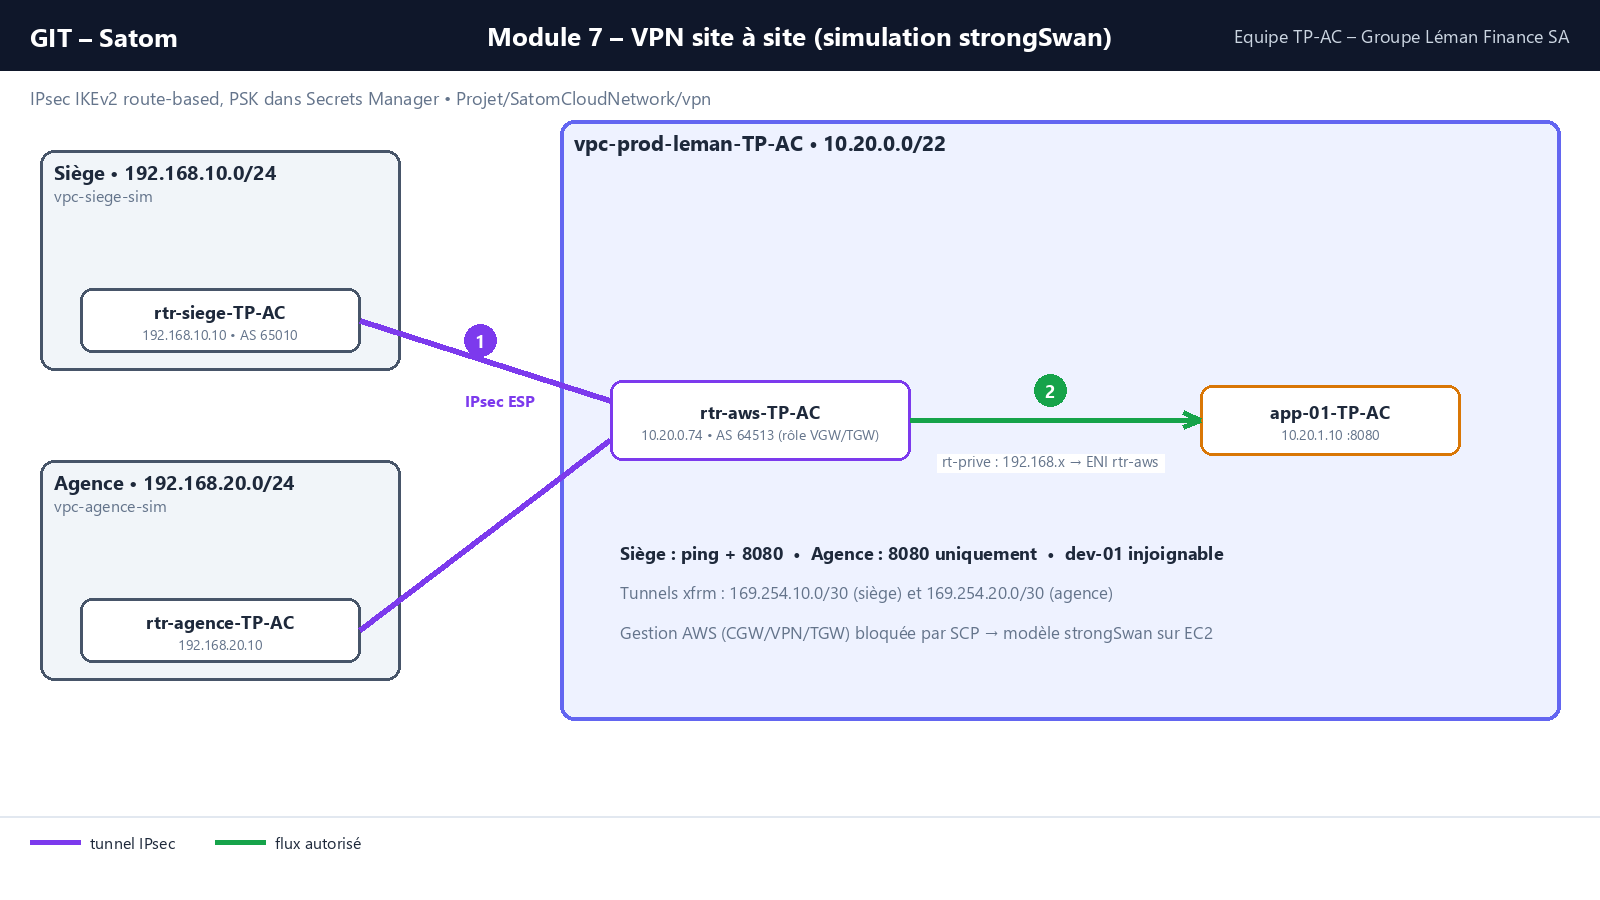
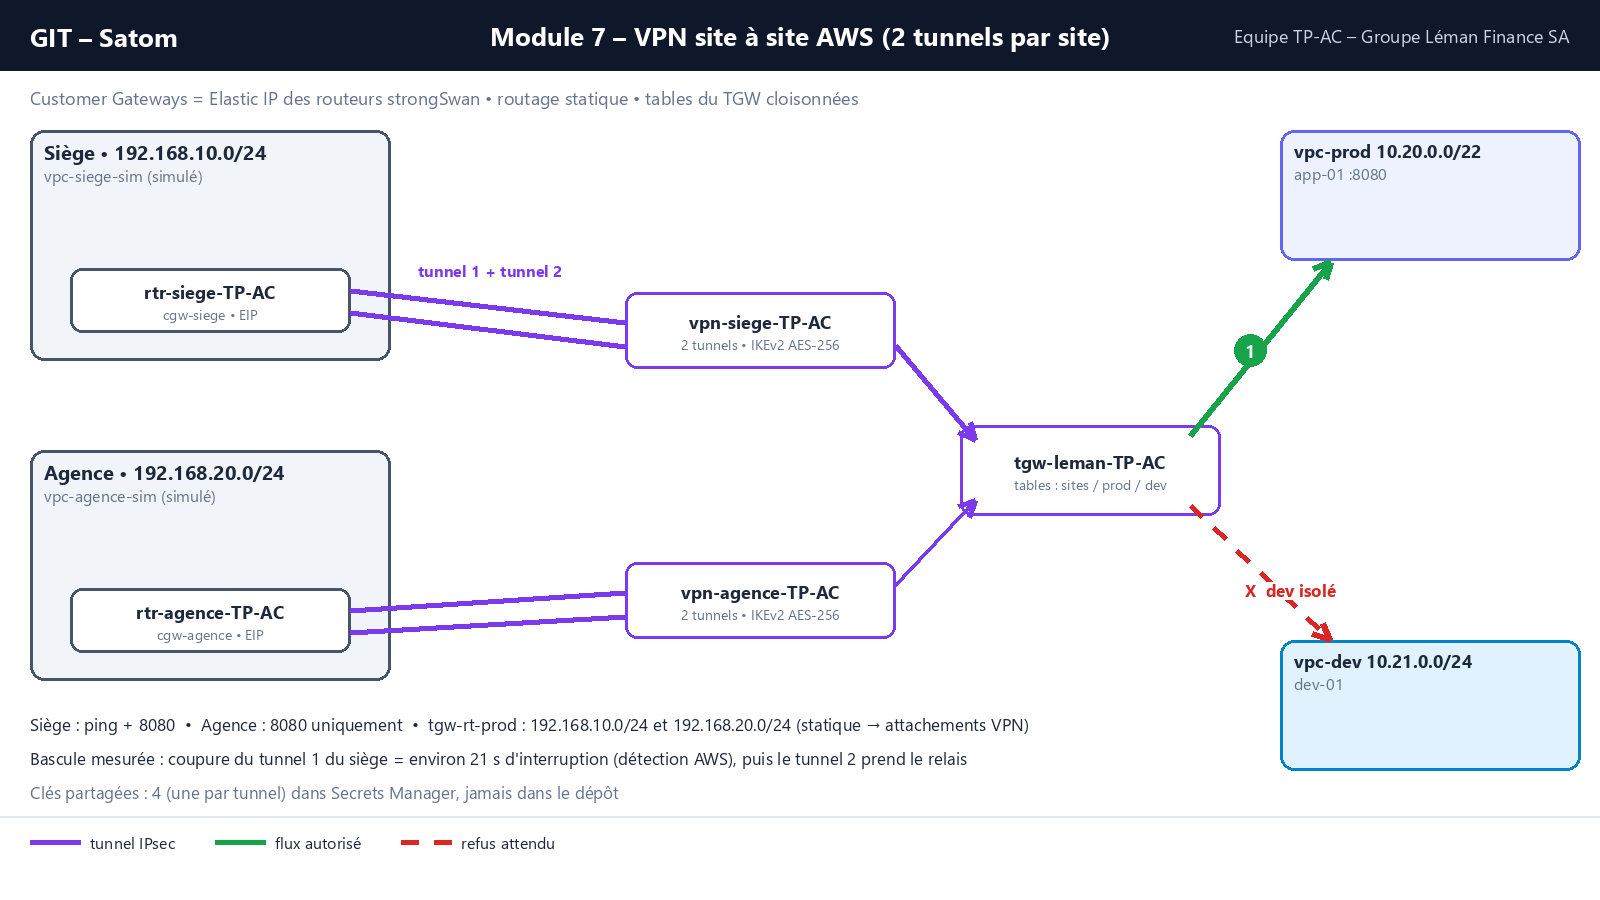
Schemas des modules 6, 7, 8 et schema global mis a jour

diff --git a/scripts/diagrams/gen_m05_m13.py b/scripts/diagrams/gen_m05_m13.py
@@ -23,52 +23,64 @@ g.label(800, 505, "③ dev → 3ᵉ VPC via prod : non transitif", C["ko"], 17, 
 g.legend([(C["ok"], "flux autorisé", False), (C["ko"], "refus attendus", True)])
 g.save(S('m05-peering.png'))
 
-# ---------- Module 6 : TGW (non deploye) ----------
-g = Diagram("Module 6 – Transit Gateway (architecture cible, non déployée : SCP)", "Etoile autour de tgw-leman-TP-AC, deux tables de routage, siège en pointillés gris « non connecté »")
-g.node(800, 400, "tgw-leman-TP-AC", "ASN 64512", C["white"], C["purple"], w=260, h=90)
-g.box(200, 160, 380, 140, "vpc-prod 10.20.0.0/22", C["vpc"], C["vpc_b"], sub="tgwa-prod → tgw-rt-prod")
-g.box(1020, 160, 380, 140, "vpc-dev 10.21.0.0/24", C["dev"], C["dev_b"], sub="tgwa-dev → tgw-rt-dev")
-g.box(610, 630, 380, 130, "Siège 192.168.10.0/24", C["onp"], C["onp_b"], sub="non connecté (module 7)", dash=True)
-g.line((580, 260), (700, 360), C["ok"], 5, arrow=True); g.line((1020, 260), (900, 360), C["ok"], 5, arrow=True)
-g.line((800, 445), (800, 630), C["grey"], 5, dash=True)
-g.box(120, 480, 520, 120, "tgw-rt-prod", C["white"], C["vpc_b"], lw=2, size=17, sub="associée : tgwa-prod • propagé : tgwa-dev")
-g.box(960, 480, 520, 120, "tgw-rt-dev", C["white"], C["dev_b"], lw=2, size=17, sub="associée : tgwa-dev • propagé : tgwa-prod")
-g.legend([(C["ok"], "attachement VPC", False), (C["grey"], "non connecté", True)])
+# ---------- Module 6 : TGW ----------
+g = Diagram("Module 6 – Transit Gateway", "tgw-leman-TP-AC remplace le peering : un attachement par VPC, une table de routage par environnement")
+g.node(800, 420, "tgw-leman-TP-AC", "ASN 64512", C["white"], C["purple"], w=270, h=96)
+g.box(110, 150, 430, 150, "vpc-prod 10.20.0.0/22", C["vpc"], C["vpc_b"], sub=["tgwa-prod-TP-AC (sub-prive-1a)", "app-01 10.20.1.10 :8080"])
+g.box(1060, 150, 430, 150, "vpc-dev 10.21.0.0/24", C["dev"], C["dev_b"], sub=["tgwa-dev-TP-AC (sub-dev-1a)", "dev-01 10.21.0.10"])
+g.line((540, 250), (690, 385), C["ok"], 6, arrow=True); g.num(600, 290, 1)
+g.line((1060, 250), (910, 385), C["ok"], 6, arrow=True); g.num(1000, 290, 2)
+g.box(110, 520, 520, 150, "tgw-rt-prod-TP-AC", C["white"], C["vpc_b"], lw=2, size=18, sub=["associée : tgwa-prod", "apprend : 10.21.0.0/24 (dev) par propagation"])
+g.box(970, 520, 520, 150, "tgw-rt-dev-TP-AC", C["white"], C["dev_b"], lw=2, size=18, sub=["associée : tgwa-dev", "apprend : 10.20.0.0/22 (prod) par propagation"])
+g.d.text((110, 705), "Dans les VPC : rt-prive 10.21.0.0/24 → TGW  •  table du dev 10.20.0.0/22 → TGW  •  pcx-lab supprimé", font=f(18), fill=C["ink"])
+g.d.text((110, 745), "Test de segmentation : propagation tgwa-dev → tgw-rt-prod retirée = la réponse n'a plus de route, le curl échoue", font=f(18), fill=C["ink"])
+g.d.text((110, 785), "Le siège et l'agence se branchent sur le même Transit Gateway au module 7, dans une table à part (tgw-rt-sites).", font=f(17), fill=C["mute"])
+g.legend([(C["ok"], "attachement VPC", False)])
 g.save(S('m06-tgw.png'))
 
-# ---------- Module 7 : IPsec simule ----------
-g = Diagram("Module 7 – VPN site à site (simulation strongSwan)", "IPsec IKEv2 route-based, PSK dans Secrets Manager • Projet/SatomCloudNetwork/vpn")
-g.box(40, 150, 360, 220, "Siège • 192.168.10.0/24", C["onp"], C["onp_b"], sub="vpc-siege-sim")
-g.node(220, 320, "rtr-siege-TP-AC", "192.168.10.10 • AS 65010", C["white"], C["onp_b"], w=280)
-g.box(40, 460, 360, 220, "Agence • 192.168.20.0/24", C["onp"], C["onp_b"], sub="vpc-agence-sim")
-g.node(220, 630, "rtr-agence-TP-AC", "192.168.20.10", C["white"], C["onp_b"], w=280)
-g.box(560, 120, 1000, 600, "vpc-prod-leman-TP-AC • 10.20.0.0/22", C["vpc"], C["vpc_b"], lw=4, size=21)
-g.node(760, 420, "rtr-aws-TP-AC", "10.20.0.74 • AS 64513 (rôle VGW/TGW)", C["white"], C["purple"], w=300, h=80)
-g.node(1330, 420, "app-01-TP-AC", "10.20.1.10 :8080", C["white"], C["priv_b"], w=260, h=70)
-g.line((360, 320), (610, 400), C["purple"], 6); g.num(480, 340, 1, C["purple"])
-g.line((360, 630), (610, 440), C["purple"], 6)
-g.label(500, 400, "IPsec ESP", C["purple"], 16, True)
-g.line((910, 420), (1200, 420), C["ok"], 5, arrow=True); g.num(1050, 390, 2)
-g.label(1050, 460, "rt-prive : 192.168.x → ENI rtr-aws", C["mute"], 15)
-g.d.text((620, 540), "Siège : ping + 8080  •  Agence : 8080 uniquement  •  dev-01 injoignable", font=f(18, True), fill=C["ink"])
-g.d.text((620, 580), "Tunnels xfrm : 169.254.10.0/30 (siège) et 169.254.20.0/30 (agence)", font=f(17), fill=C["mute"])
-g.d.text((620, 620), "Gestion AWS (CGW/VPN/TGW) bloquée par SCP → modèle strongSwan sur EC2", font=f(17), fill=C["mute"])
-g.legend([(C["purple"], "tunnel IPsec", False), (C["ok"], "flux autorisé", False)])
+# ---------- Module 7 : VPN AWS ----------
+g = Diagram("Module 7 – VPN site à site AWS (2 tunnels par site)", "Customer Gateways = Elastic IP des routeurs strongSwan • routage statique • tables du TGW cloisonnées")
+g.box(30, 130, 360, 230, "Siège • 192.168.10.0/24", C["onp"], C["onp_b"], sub="vpc-siege-sim (simulé)")
+g.node(210, 300, "rtr-siege-TP-AC", "cgw-siege • EIP", C["white"], C["onp_b"], w=280)
+g.box(30, 450, 360, 230, "Agence • 192.168.20.0/24", C["onp"], C["onp_b"], sub="vpc-agence-sim (simulé)")
+g.node(210, 620, "rtr-agence-TP-AC", "cgw-agence • EIP", C["white"], C["onp_b"], w=280)
+g.node(760, 330, "vpn-siege-TP-AC", "2 tunnels • IKEv2 AES-256", C["white"], C["purple"], w=270, h=76)
+g.node(760, 600, "vpn-agence-TP-AC", "2 tunnels • IKEv2 AES-256", C["white"], C["purple"], w=270, h=76)
+g.line((350, 290), (625, 322), C["purple"], 6); g.line((350, 312), (625, 346), C["purple"], 6)
+g.line((350, 610), (625, 592), C["purple"], 6); g.line((350, 632), (625, 616), C["purple"], 6)
+g.label(490, 270, "tunnel 1 + tunnel 2", C["purple"], 16, True)
+g.node(1090, 470, "tgw-leman-TP-AC", "tables : sites / prod / dev", C["white"], C["purple"], w=260, h=90)
+g.line((895, 345), (975, 440), C["purple"], 5, arrow=True); g.line((895, 585), (975, 500), C["purple"], 5, arrow=True)
+g.box(1280, 130, 300, 130, "vpc-prod 10.20.0.0/22", C["vpc"], C["vpc_b"], sub="app-01 :8080", size=18)
+g.box(1280, 640, 300, 130, "vpc-dev 10.21.0.0/24", C["dev"], C["dev_b"], sub="dev-01", size=18)
+g.line((1190, 435), (1330, 262), C["ok"], 6, arrow=True); g.num(1250, 350, 1)
+g.line((1190, 505), (1330, 640), C["ko"], 6, dash=True, arrow=True); g.label(1290, 590, "X  dev isolé", C["ko"], 17, True)
+g.d.text((30, 712), "Siège : ping + 8080  •  Agence : 8080 uniquement  •  tgw-rt-prod : 192.168.10.0/24 et 192.168.20.0/24 (statique → attachements VPN)", font=f(17), fill=C["ink"])
+g.d.text((30, 746), "Bascule mesurée : coupure du tunnel 1 du siège = environ 21 s d'interruption (détection AWS), puis le tunnel 2 prend le relais", font=f(17), fill=C["ink"])
+g.d.text((30, 780), "Clés partagées : 4 (une par tunnel) dans Secrets Manager, jamais dans le dépôt", font=f(17), fill=C["mute"])
+g.legend([(C["purple"], "tunnel IPsec", False), (C["ok"], "flux autorisé", False), (C["ko"], "refus attendu", True)])
 g.save(S('m07-vpn.png'))
 
-# ---------- Module 8 : DX simule ----------
-g = Diagram("Module 8 – Direct Connect simulé : GRE + BGP", "AS 65010 (siège) ↔ AS 64513 (AWS) • DX : local-pref 200 • VPN : AS-path prepend ×3")
-g.node(250, 380, "rtr-siege-TP-AC", "AS 65010 • 192.168.10.0/24", C["white"], C["onp_b"], w=300, h=90)
-g.node(1350, 380, "rtr-aws-TP-AC", "AS 64513 • 10.20.0.0/22", C["white"], C["purple"], w=300, h=90)
-g.line((400, 360), (1200, 360), C["ok"], 8)
-g.label(800, 330, "tunnel GRE 169.254.100.0/30  (« fibre DX »)  •  BGP Established • local-pref 200", C["ok"], 18, True)
-g.line((400, 410), (1200, 410), C["grey"], 6, dash=True)
-g.label(800, 445, "IPsec 169.254.10.0/30 (secours VPN) • AS-path 65010 ×3 • local-pref 100", C["mute"], 18, True)
-g.box(200, 520, 1200, 230, "Dimensionnement et bascule", C["white"], C["vpc_b"], lw=2, size=18)
-g.d.text((230, 565), "2 To en 8 h = 16 000 Gbit / 28 800 s = 0,556 Gbit/s → liaison 1 Gbit/s (marge ~44 %)", font=f(18), fill=C["ink"])
-g.d.text((230, 600), "DX coupé → BGP retire la route, le trafic passe par le VPN ; DX rétabli → retour automatique", font=f(18), fill=C["ink"])
-g.d.text((230, 635), "dxgw-leman-TP-AC (ASN 64513) : création bloquée par SCP ; modélisée par rtr-aws (FRRouting)", font=f(18), fill=C["mute"])
-g.legend([(C["ok"], "liaison DX (GRE)", False), (C["grey"], "secours VPN", True)])
+# ---------- Module 8 : DX ----------
+g = Diagram("Module 8 – Direct Connect : passerelle réelle, liaison simulée", "dxgw-leman-TP-AC (ASN 64513) associé à tgw-leman • BGP : DX local-pref 200, VPN prepend ×3")
+g.node(240, 320, "rtr-siege-TP-AC", "AS 65010 • 192.168.10.0/24", C["white"], C["onp_b"], w=300, h=90)
+g.node(1360, 320, "rtr-aws-TP-AC", "AS 64513 • 10.20.0.0/22", C["white"], C["purple"], w=300, h=90)
+g.line((395, 300), (1205, 300), C["ok"], 8)
+g.label(800, 268, "GRE gre-dx 169.254.100.0/30 (« fibre DX ») • BGP établi • local-pref 200", C["ok"], 17, True)
+g.line((395, 345), (1205, 345), C["grey"], 6, dash=True)
+g.label(800, 385, "GRE gre-vpn 169.254.101.0/30 dans le VRAI VPN du module 7 • prepend ×3", C["mute"], 17, True)
+g.box(110, 450, 640, 270, "Partie réelle (AWS)", C["white"], C["vpc_b"], lw=2, size=19)
+g.d.text((135, 495), "dxgw-leman-TP-AC : ASN 64513, état available", font=f(17), fill=C["ink"])
+g.d.text((135, 528), "associé à tgw-leman-TP-AC", font=f(17), fill=C["ink"])
+g.d.text((135, 561), "préfixes autorisés : 10.20.0.0/22, 192.168.10.0/24", font=f(17), fill=C["ink"])
+g.d.text((135, 594), "emplacement retenu (non commandé) : EQSK1", font=f(17), fill=C["ink"])
+g.d.text((135, 640), "2 To en 8 h = 0,556 Gbit/s → liaison 1 Gbit/s, marge ~44 %", font=f(17), fill=C["mute"])
+g.box(850, 450, 640, 270, "Partie simulée (pas de fibre commandée)", C["white"], C["grey"], lw=2, size=19, dash=True)
+g.d.text((875, 495), "DX coupé en silence : BGP le détecte, le trafic passe", font=f(17), fill=C["ink"])
+g.d.text((875, 528), "par le chemin VPN en 7,6 s environ", font=f(17), fill=C["ink"])
+g.d.text((875, 561), "DX rétabli : retour automatique, sans nouvelle coupure", font=f(17), fill=C["ink"])
+g.d.text((875, 640), "Routeurs : FRRouting sur Ubuntu (pas GNS3)", font=f(17), fill=C["mute"])
+g.legend([(C["ok"], "liaison DX (GRE)", False), (C["grey"], "secours : GRE dans le VPN", True)])
 g.save(S('m08-dx.png'))
 
 # ---------- Module 9 : ALB ----------
@@ -155,24 +167,27 @@ g.legend([(C["ok"], "déploiement", False)])
 g.save(S('m13-cloudformation.png'))
 
 # ---------- Schema WAN global ----------
-g = Diagram("Satom Cloud Network – Schéma réseau final (WAN)", "Groupe Léman Finance SA • eu-north-1 • simulations marquées en pointillés")
+g = Diagram("Satom Cloud Network – Schéma réseau final (WAN)", "Groupe Léman Finance SA • eu-north-1 • pointillés = simulé (sites, fibre Direct Connect)")
 g.node(130, 140, "Internet", None, C["onp"], C["onp_b"], w=170, h=44)
 g.box(30, 230, 330, 150, "Siège Genève 192.168.10.0/24", C["onp"], C["onp_b"], sub="rtr-siege (strongSwan + FRR) AS 65010", dash=True, size=17)
-g.box(30, 410, 330, 150, "Agence Lausanne 192.168.20.0/24", C["onp"], C["onp_b"], sub="rtr-agence (strongSwan)", dash=True, size=17)
-g.box(430, 120, 1150, 700, "AWS eu-north-1  •  CloudFront → ALB", C["white"], C["ink"], lw=3, size=19)
-g.node(520, 190, "CloudFront", "d-leman-portail", C["white"], C["purple"], w=190, h=60)
-g.node(800, 190, "Route 53", "privée + publique", C["white"], C["purple"], w=200, h=60)
-g.node(1080, 190, "CloudWatch / SNS", "Flow Logs", C["white"], C["blue"], w=210, h=60)
-g.box(470, 250, 640, 540, "vpc-prod-leman-TP-AC • 10.20.0.0/22", C["vpc"], C["vpc_b"], lw=3, size=18)
-g.box(490, 300, 290, 130, "sub-public-1a/1b", C["pub"], C["pub_b"], sub=["ALB, web-01 10.20.0.10", "NAT, rtr-aws 10.20.0.74"], size=16)
-g.box(800, 300, 290, 130, "sub-prive-1a 10.20.1.0/26", C["priv"], C["priv_b"], sub="app-01 10.20.1.10", size=16)
-g.box(490, 460, 600, 100, "Network Firewall (non déployé : SCP) • sub-fw 10.20.2.0/28", C["fw"], C["fw_b"], dash=True, size=16)
-g.box(1140, 250, 410, 250, "vpc-dev-leman-TP-AC • 10.21.0.0/24", C["dev"], C["dev_b"], sub="dev-01 10.21.0.10 • peering pcx-lab", size=16)
-g.box(1140, 530, 410, 120, "Transit Gateway / Direct Connect (SCP)", C["white"], C["grey"], sub="modélisés : IPsec + GRE/BGP", dash=True, size=16)
-g.line((360, 300), (490, 380), C["purple"], 5); g.line((360, 480), (490, 400), C["purple"], 5)
-g.line((780, 360), (800, 360), C["ok"], 5, arrow=True); g.line((1090, 360), (1140, 360), C["ok"], 5, arrow=True)
-g.line((200, 164), (430, 190), C["ok"], 4, arrow=True)
-g.d.text((500, 700), "Tags : Projet=SatomCloudNetwork • Equipe=TP-AC • Environnement=prod|dev", font=f(17), fill=C["mute"])
-g.d.text((500, 735), "Flux validés : web→app 8080 • siege→app ping+8080 • agence→app 8080 • dev→app 8080", font=f(17), fill=C["mute"])
-g.legend([(C["purple"], "IPsec simulé", False), (C["ok"], "flux autorisé", False), (C["grey"], "non déployé (SCP)", True)])
+g.box(30, 430, 330, 150, "Agence Lausanne 192.168.20.0/24", C["onp"], C["onp_b"], sub="rtr-agence (strongSwan)", dash=True, size=17)
+g.box(410, 120, 1170, 710, "AWS eu-north-1", C["white"], C["ink"], lw=3, size=19)
+g.node(560, 190, "CloudFront", "d-leman-portail", C["white"], C["purple"], w=200, h=60)
+g.node(860, 190, "Route 53", "privée + publique", C["white"], C["purple"], w=210, h=60)
+g.node(1160, 190, "CloudWatch / SNS", "Flow Logs", C["white"], C["blue"], w=230, h=60)
+g.box(440, 250, 300, 280, "tgw-leman-TP-AC", C["white"], C["purple"], lw=3, size=19, sub=["3 tables : prod / dev / sites", "2 VPN, 4 tunnels IPsec", "DX Gateway ASN 64513"])
+g.box(440, 580, 300, 120, "vpc-dev 10.21.0.0/24", C["dev"], C["dev_b"], sub="dev-01 10.21.0.10", size=17)
+g.box(790, 250, 770, 320, "vpc-prod-leman-TP-AC • 10.20.0.0/22", C["vpc"], C["vpc_b"], lw=3, size=19)
+g.box(810, 300, 340, 120, "sub-public-1a/1b", C["pub"], C["pub_b"], sub=["ALB, web-01 10.20.0.10", "NAT, rtr-aws 10.20.0.74"], size=16)
+g.box(1180, 300, 360, 120, "sub-prive-1a 10.20.1.0/26", C["priv"], C["priv_b"], sub="app-01 10.20.1.10", size=16)
+g.box(810, 450, 730, 90, "Network Firewall • sub-fw 10.20.2.0/28 (domaines autorisés)", C["fw"], C["fw_b"], size=16)
+g.box(790, 600, 770, 100, "Direct Connect : dxgw-leman-TP-AC (réel) • liaison GRE + BGP simulée", C["white"], C["grey"], size=16, dash=True, sub="local-pref 200 sur le DX • secours = GRE dans le VPN, prepend x3")
+g.line((360, 305), (440, 340), C["purple"], 5); g.line((360, 505), (440, 450), C["purple"], 5)
+g.label(400, 400, "IPsec", C["purple"], 15, True)
+g.line((740, 390), (790, 390), C["ok"], 5, arrow=True)
+g.line((590, 530), (590, 580), C["ok"], 5, arrow=True)
+g.line((200, 164), (410, 190), C["ok"], 4, arrow=True)
+g.d.text((440, 735), "Tags : Projet=SatomCloudNetwork • Equipe=TP-AC • Environnement=prod|dev", font=f(17), fill=C["mute"])
+g.d.text((440, 775), "Flux validés : web→app 8080 • siège→app ping+8080 • agence→app 8080 • dev→app 8080 • sites X dev", font=f(17), fill=C["mute"])
+g.legend([(C["purple"], "VPN IPsec (réel)", False), (C["ok"], "flux autorisé", False), (C["grey"], "simulé", True)])
 g.save(S('global.png'))
